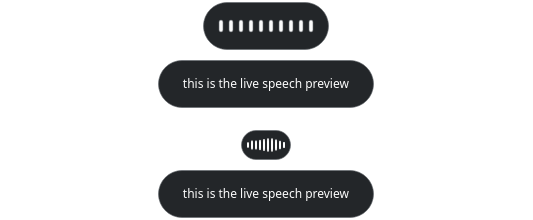
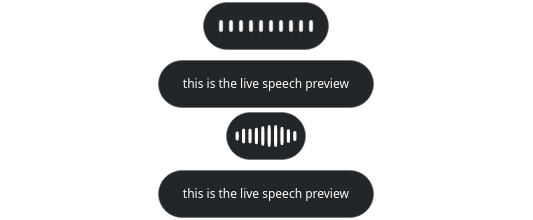
Scale the waveform pill to the transcript pill's height
Wispr Flow's active pill is 50x30 and stands alone against a screen
edge. Speecher's popup stacks the waveform directly above the
transcript pill, which is 48px tall, so at 30px the waveform read as a
separate, much smaller component instead of the same one.

One factor, derived from the transcript pill's height, now scales the
pill and the bar geometry together (80x48, bars 3.2px wide with 3.2px
gaps). Every proportion stays Wispr Flow's: the bar row still fills
76% of the pill's width, a saturated bar still reaches 50% of its
height, and the animation is untouched. Measured bar heights still fit
the reference model to within 0.44px.

Changed region(s): [[0.4203, 0.4909, 0.6004, 0.7364]]

diff --git a/src/ui/WaveformWidget.cpp b/src/ui/WaveformWidget.cpp
@@ -21,16 +21,23 @@ QColor withAlpha(QColor color, int alpha)
     return color;
 }
 
-// Wispr Flow's active status pill, used by the waveform and its frozen twin.
-constexpr int wavePillWidth = 50;
-constexpr int wavePillHeight = 30;
-// The pill's earlier size, kept for the states this port does not touch: the
-// sign-in dots, the delivery receipt, and the shimmering status text.
+// The pill size for the states this port does not touch: the sign-in dots,
+// the delivery receipt, and the shimmering status text.
 constexpr int textPillWidth = 126;
 constexpr int textPillHeight = 48;
+// Wispr Flow's active status pill is 50x30 and stands alone against a screen
+// edge. Speecher's popup stacks the waveform above the transcript pill, where
+// that size reads as a different, much smaller component, so the whole design
+// is scaled to the transcript pill's height. Every proportion below stays
+// Wispr Flow's; only this factor is ours.
+constexpr qreal referencePillHeight = 30.0;
+constexpr qreal pillScale = textPillHeight / referencePillHeight;
+constexpr int wavePillWidth = int(50.0 * pillScale);
+constexpr int wavePillHeight = textPillHeight;
 
-// The waveform is a port of Wispr Flow's status-bar bars (v1.6.793): ten 2x2px
-// rounded dots, each scaled vertically about its centre by
+// The waveform is a port of Wispr Flow's status-bar bars (v1.6.793): ten
+// rounded dots, 2x2px before pillScale, each scaled vertically about its
+// centre by
 //
 //   audioScale * bulge * wave
 //
@@ -40,10 +47,10 @@ constexpr int textPillHeight = 48;
 // keyframes) whose phase trails 0.1s per bar, so a crest travels across the
 // row once per second and wraps seamlessly.
 constexpr int barCount = 10;
-constexpr qreal barWidth = 2.0;
-constexpr qreal barGap = 2.0;
-constexpr qreal barDotHeight = 2.0;
-constexpr qreal barRadius = 0.5;
+constexpr qreal barWidth = 2.0 * pillScale;
+constexpr qreal barGap = 2.0 * pillScale;
+constexpr qreal barDotHeight = 2.0 * pillScale;
+constexpr qreal barRadius = 0.5 * pillScale;
 constexpr float audioGain = 5.0f;
 constexpr float levelSpanDb = 20.0f;
 // Wispr Flow stops the floor descending past -60 dBFS of the raw capture, so

diff --git a/tests/test_ui.cpp b/tests/test_ui.cpp
@@ -1162,10 +1162,12 @@ private slots:
 
     // The pill is Wispr Flow's 50x30 while it shows the waveform; the states
     // this port does not change keep the size they had.
-    void waveformPillResizesOnlyForTheWaveform()
+    void waveformPillMatchesTheTranscriptPillHeight()
     {
+        // Wispr Flow's 50x30 pill scaled to the transcript pill's height, so
+        // the two read as one component rather than a big and a small one.
         speecher::WaveformWidget waveform;
-        QCOMPARE(waveform.size(), QSize(50, 30));
+        QCOMPARE(waveform.size(), QSize(80, 48));
 
         waveform.setMode(speecher::WaveformWidget::Mode::Dots);
         QCOMPARE(waveform.width(), 126);
@@ -1176,7 +1178,7 @@ private slots:
         QVERIFY(waveform.height() >= 48);
 
         waveform.setMode(speecher::WaveformWidget::Mode::Waveform);
-        QCOMPARE(waveform.size(), QSize(50, 30));
+        QCOMPARE(waveform.size(), QSize(80, 48));
     }
 };
 

diff --git a/docs/research/0005-wispr-flow-waveform.md b/docs/research/0005-wispr-flow-waveform.md
@@ -81,4 +81,11 @@ A separate 5-bar "mini" waveform (used in the compact/resting indicator) hard-co
 
 ## Port to speecher
 
-Speecher's `WaveformWidget` reimplements stages 2 and 3 plus the CSS model in QPainter: per-level adaptive dB floor mapping (fed from the existing `levelChanged` signal, whose fixed 8x gain the floor absorbs), 150ms mean with hold-on-empty, per-frame 0.85 EMA at a 16ms tick, gain 5 floored at 1, and per-bar `2px x audioScale x bulge x wave` with the same keyframes, per-segment ease-in-out (Newton-solved bezier), and 0.1s/bar phase trail. Colors follow palette roles (Base pill, Text bars) per the project's UI rules instead of Wispr Flow's fixed dark palette.
+Speecher's `WaveformWidget` reimplements stages 2 and 3 plus the CSS model in QPainter: per-level adaptive dB floor mapping (fed from the existing `levelChanged` signal), a 150ms mean with hold-on-empty, a per-frame 0.85 EMA at a 16ms tick, gain 5 floored at 1, and per-bar `dotHeight x audioScale x bulge x wave` with the same keyframes, per-segment ease-in-out (Newton-solved bezier), and 0.1s/bar phase trail.
+
+Two deliberate departures:
+
+- **Colours are palette roles** (Base pill, Text bars) rather than Wispr Flow's fixed dark palette, because Speecher follows the desktop theme.
+- **The pill is scaled up by 1.6.** Wispr Flow's active pill is 50x30 and stands alone against a screen edge. Speecher's popup stacks the waveform directly above the transcript pill, which is 48px tall, and at 30px the waveform read as a separate, much smaller component. The whole design is therefore scaled to that height (80x48, bars 3.2px wide with 3.2px gaps), so every proportion stays Wispr Flow's: the bar row still fills 76% of the pill's width and a saturated bar still reaches 50% of its height.
+
+The floor's clamp is the one constant that could not be carried over directly. Wispr Flow stops the floor descending past -60 dBFS of the raw capture; Speecher's level signal is pre-gained and the gain differs per audio input (`QtAudioInput` emits `rms*8` clipped at 1, `WavFileAudioInput` a unity peak), so there is no single dBFS equivalent. The port clamps at -46dB, which sits below room tone on both paths.
